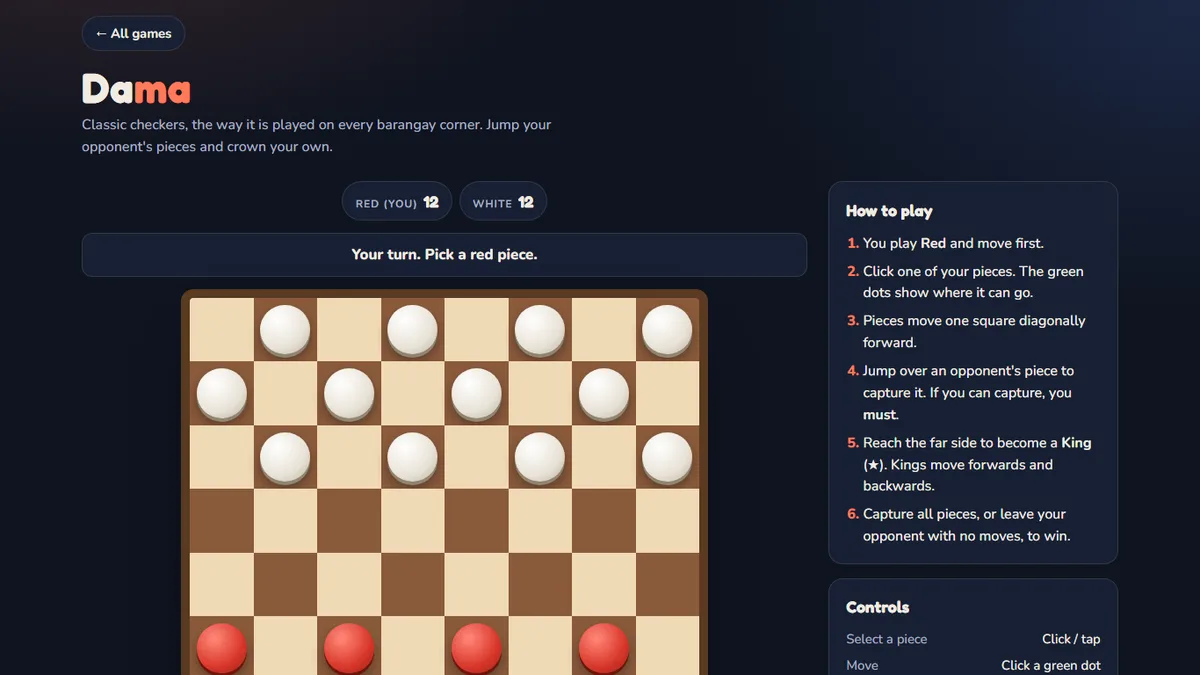
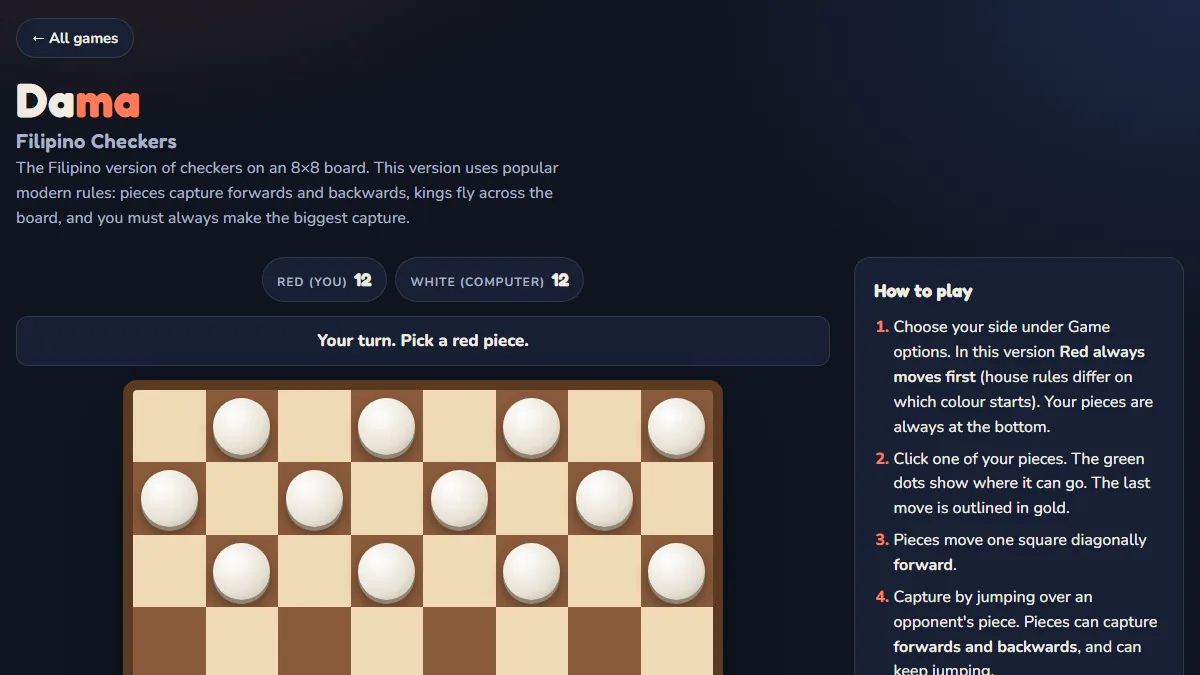
Add Upfern and update game descriptions and screenshots

Changed region(s): [[0.0, 0.0311, 0.6167, 1.0], [0.6783, 0.28, 0.9867, 1.0]]

diff --git a/index.html b/index.html
@@ -301,7 +301,7 @@
               <p class="eyebrow">Games &amp; Apps · 2026</p>
               <h3 class="ai-lab__title">Small browser games and apps</h3>
               <p class="ai-lab__note">Each project runs directly in the browser without requiring a download and includes on-screen instructions. Depending on the project, you can use a keyboard, mouse, touchscreen, or a combination of these. These projects were built with the help of AI coding tools and tested on desktop and mobile devices.</p>
-              <p class="ai-lab__cta"><a class="btn btn--primary btn--sm" href="https://dustinclarence.github.io/arcade/" target="_blank" rel="noopener">Open the Arcade: 9 games ↗<span class="visually-hidden"> (opens in a new tab)</span></a></p>
+              <p class="ai-lab__cta"><a class="btn btn--primary btn--sm" href="https://dustinclarence.github.io/arcade/" target="_blank" rel="noopener">Open the Arcade: 10 games ↗<span class="visually-hidden"> (opens in a new tab)</span></a></p>
             </header>
             <div class="projects projects--ai">
             <article class="project project--lab reveal" data-cat="lab">
@@ -313,11 +313,28 @@
               <div class="project__body">
                 <p class="project__meta"><span>Game</span> Driving</p>
                 <h3 class="project__title">Moonlit Cash Run</h3>
-                <p>A 16-bit style chase through a big city at night. The camera follows behind your car while you grab cash bags and escape the police.</p>
-                <p class="project__skills"><strong>Skills demonstrated:</strong> Rotating chase camera, car physics, police pathfinding (breadth-first search), minimap, keyboard and touch controls</p>
+                <p>A 16-bit style chase through a big city at night. The camera follows behind your car while you grab cash bags and escape the police. Steering sensitivity can be adjusted.</p>
+                <p class="project__skills"><strong>Skills demonstrated:</strong> Rotating chase camera, car physics and wall collisions, police pathfinding (breadth-first search), minimap, keyboard and touch controls</p>
                 <div class="project__actions">
                   <a class="btn btn--primary btn--sm" href="https://dustinclarence.github.io/arcade/moonlit-cash-run/" target="_blank" rel="noopener">Play<span class="visually-hidden"> Moonlit Cash Run (opens in a new tab)</span></a>
                   <a class="btn btn--ghost btn--sm" href="https://github.com/dustinclarence/arcade" target="_blank" rel="noopener">Code<span class="visually-hidden"> of Moonlit Cash Run on GitHub (opens in a new tab)</span></a>
+                </div>
+              </div>
+            </article>
+            <article class="project project--lab reveal" data-cat="lab">
+              <a class="project__media" href="https://dustinclarence.github.io/arcade/upfern/" target="_blank" rel="noopener">
+                <img src="/img/game-upfern.webp" width="1200" height="675" loading="lazy" alt="Upfern game with a seed sprout jumping between leaves" />
+                <span class="project__zoom" aria-hidden="true">Play now ↗</span>
+                <span class="visually-hidden">Open Upfern (opens in a new tab)</span>
+              </a>
+              <div class="project__body">
+                <p class="project__meta"><span>Game</span> Endless jumper</p>
+                <h3 class="project__title">Upfern</h3>
+                <p>An original endless jumping game. Steer a little seed sprout from leaf to leaf, avoid thornbugs and climb as high as you can.</p>
+                <p class="project__skills"><strong>Skills demonstrated:</strong> Fixed-timestep physics, procedural level generation, collision detection, keyboard and touch controls</p>
+                <div class="project__actions">
+                  <a class="btn btn--primary btn--sm" href="https://dustinclarence.github.io/arcade/upfern/" target="_blank" rel="noopener">Play<span class="visually-hidden"> Upfern (opens in a new tab)</span></a>
+                  <a class="btn btn--ghost btn--sm" href="https://github.com/dustinclarence/arcade" target="_blank" rel="noopener">Code<span class="visually-hidden"> of Upfern on GitHub (opens in a new tab)</span></a>
                 </div>
               </div>
             </article>
@@ -330,8 +347,8 @@
               <div class="project__body">
                 <p class="project__meta"><span>Game</span> Board</p>
                 <h3 class="project__title">Dama (Filipino Checkers)</h3>
-                <p>Filipino checkers using modern 8×8 rules: pieces capture forwards and backwards, kings fly along the diagonals, and you must take the most pieces. Play the computer or a friend.</p>
-                <p class="project__skills"><strong>Skills demonstrated:</strong> Rule engine (compulsory maximum capture, flying kings), computer opponent (minimax), undo</p>
+                <p>Filipino checkers using modern 8×8 rules: pieces capture forwards and backwards, kings fly along the diagonals, and you must take the most pieces. Play Red or White against the computer, or play a friend.</p>
+                <p class="project__skills"><strong>Skills demonstrated:</strong> Rule engine (compulsory maximum capture, flying kings), computer opponent (minimax), move animations, undo</p>
                 <div class="project__actions">
                   <a class="btn btn--primary btn--sm" href="https://dustinclarence.github.io/arcade/dama/" target="_blank" rel="noopener">Play<span class="visually-hidden"> Dama (opens in a new tab)</span></a>
                   <a class="btn btn--ghost btn--sm" href="https://github.com/dustinclarence/arcade" target="_blank" rel="noopener">Code<span class="visually-hidden"> of Dama on GitHub (opens in a new tab)</span></a>
@@ -347,7 +364,7 @@
               <div class="project__body">
                 <p class="project__meta"><span>Game</span> Board</p>
                 <h3 class="project__title">Four in a Row</h3>
-                <p>Drop discs and connect four before your opponent. The computer looks several moves ahead.</p>
+                <p>Drop discs and connect four before your opponent. Play first or second; the computer looks several moves ahead.</p>
                 <p class="project__skills"><strong>Skills demonstrated:</strong> Minimax with alpha-beta pruning, win detection, animations</p>
                 <div class="project__actions">
                   <a class="btn btn--primary btn--sm" href="https://dustinclarence.github.io/arcade/four-in-a-row/" target="_blank" rel="noopener">Play<span class="visually-hidden"> Four in a Row (opens in a new tab)</span></a>
@@ -364,7 +381,7 @@
               <div class="project__body">
                 <p class="project__meta"><span>Game</span> Board</p>
                 <h3 class="project__title">XOX (Tic-Tac-Toe)</h3>
-                <p>Tic-tac-toe with an unbeatable computer, an easy mode and a 2-player mode.</p>
+                <p>Tic-tac-toe with an unbeatable computer, an easy mode and a 2-player mode. Play as X or O.</p>
                 <p class="project__skills"><strong>Skills demonstrated:</strong> Game-tree search, scorekeeping, keyboard shortcuts</p>
                 <div class="project__actions">
                   <a class="btn btn--primary btn--sm" href="https://dustinclarence.github.io/arcade/xox/" target="_blank" rel="noopener">Play<span class="visually-hidden"> XOX (opens in a new tab)</span></a>
@@ -398,8 +415,8 @@
               <div class="project__body">
                 <p class="project__meta"><span>Game</span> One button</p>
                 <h3 class="project__title">Sky Stack</h3>
-                <p>Drop swinging floors from a crane to build the tallest tower you can.</p>
-                <p class="project__skills"><strong>Skills demonstrated:</strong> Canvas animation, pendulum motion, scoring and lives</p>
+                <p>Drop swinging floors from a crane to build the tallest tower you can. The tower sways, and floors placed too far off-centre topple.</p>
+                <p class="project__skills"><strong>Skills demonstrated:</strong> Canvas animation, pendulum motion, centre-of-mass balance check, scoring and lives</p>
                 <div class="project__actions">
                   <a class="btn btn--primary btn--sm" href="https://dustinclarence.github.io/arcade/sky-stack/" target="_blank" rel="noopener">Play<span class="visually-hidden"> Sky Stack (opens in a new tab)</span></a>
                   <a class="btn btn--ghost btn--sm" href="https://github.com/dustinclarence/arcade" target="_blank" rel="noopener">Code<span class="visually-hidden"> of Sky Stack on GitHub (opens in a new tab)</span></a>
@@ -415,7 +432,7 @@
               <div class="project__body">
                 <p class="project__meta"><span>Game</span> One button</p>
                 <h3 class="project__title">Paper Plane Dash</h3>
-                <p>Tap to keep a paper plane in the air and fly through the gaps between the pillars.</p>
+                <p>Tap to keep a paper plane in the air and fly through narrow gaps between the pillars. Simple to learn, hard to master.</p>
                 <p class="project__skills"><strong>Skills demonstrated:</strong> Gravity physics, collision detection, best-score saving</p>
                 <div class="project__actions">
                   <a class="btn btn--primary btn--sm" href="https://dustinclarence.github.io/arcade/paper-plane/" target="_blank" rel="noopener">Play<span class="visually-hidden"> Paper Plane Dash (opens in a new tab)</span></a>
@@ -432,8 +449,8 @@
               <div class="project__body">
                 <p class="project__meta"><span>Game</span> Classic</p>
                 <h3 class="project__title">Pixel Snake</h3>
-                <p>Eat the fruit, grow longer and avoid your own tail. Works with keys, swipe or on-screen buttons.</p>
-                <p class="project__skills"><strong>Skills demonstrated:</strong> Game loop, input queue, swipe gestures</p>
+                <p>Eat the fruit, grow longer and avoid your own tail. The snake glides smoothly between squares. Works with keys, swipe or on-screen buttons.</p>
+                <p class="project__skills"><strong>Skills demonstrated:</strong> Game loop with smooth interpolation, input queue, swipe gestures</p>
                 <div class="project__actions">
                   <a class="btn btn--primary btn--sm" href="https://dustinclarence.github.io/arcade/snake/" target="_blank" rel="noopener">Play<span class="visually-hidden"> Pixel Snake (opens in a new tab)</span></a>
                   <a class="btn btn--ghost btn--sm" href="https://github.com/dustinclarence/arcade" target="_blank" rel="noopener">Code<span class="visually-hidden"> of Pixel Snake on GitHub (opens in a new tab)</span></a>
@@ -449,8 +466,8 @@
               <div class="project__body">
                 <p class="project__meta"><span>Game</span> Puzzle</p>
                 <h3 class="project__title">Number Merge</h3>
-                <p>Slide and merge matching tiles to reach 2048, with undo for when a move goes wrong.</p>
-                <p class="project__skills"><strong>Skills demonstrated:</strong> Grid algorithms, undo history, swipe controls</p>
+                <p>Slide and merge matching tiles to reach 2048. Every tile slides smoothly to its new square, and there is undo for when a move goes wrong.</p>
+                <p class="project__skills"><strong>Skills demonstrated:</strong> Grid algorithms, tile animations, undo history, swipe controls</p>
                 <div class="project__actions">
                   <a class="btn btn--primary btn--sm" href="https://dustinclarence.github.io/arcade/number-merge/" target="_blank" rel="noopener">Play<span class="visually-hidden"> Number Merge (opens in a new tab)</span></a>
                   <a class="btn btn--ghost btn--sm" href="https://github.com/dustinclarence/arcade" target="_blank" rel="noopener">Code<span class="visually-hidden"> of Number Merge on GitHub (opens in a new tab)</span></a>
@@ -483,7 +500,7 @@
               <div class="project__body">
                 <p class="project__meta"><span>Game</span> Board</p>
                 <h3 class="project__title">Chess</h3>
-                <p>Full chess with castling, en passant and promotion against a computer that thinks up to four moves ahead.</p>
+                <p>Full chess with castling, en passant and promotion against a computer that thinks up to four moves ahead. Play as White or Black.</p>
                 <p class="project__skills"><strong>Skills demonstrated:</strong> Move generation checked with perft tests, minimax with alpha-beta pruning</p>
                 <div class="project__actions">
                   <a class="btn btn--primary btn--sm" href="https://dustinclarence.github.io/chess-ai/" target="_blank" rel="noopener">Play<span class="visually-hidden"> Chess (opens in a new tab)</span></a>
@@ -500,8 +517,8 @@
               <div class="project__body">
                 <p class="project__meta"><span>Game</span> Strategy</p>
                 <h3 class="project__title">Fleet Grid</h3>
-                <p>An original naval grid game. The computer aims with a probability heatmap you can switch on and watch.</p>
-                <p class="project__skills"><strong>Skills demonstrated:</strong> Probability-based search, game design, keyboard play</p>
+                <p>An original naval grid game. Place your own fleet (the same ships as the computer), choose who fires first, and watch the computer aim with a probability heatmap.</p>
+                <p class="project__skills"><strong>Skills demonstrated:</strong> Probability-based search, ship placement rules, game design, keyboard play</p>
                 <div class="project__actions">
                   <a class="btn btn--primary btn--sm" href="https://dustinclarence.github.io/fleet-grid-ai/" target="_blank" rel="noopener">Play<span class="visually-hidden"> Fleet Grid (opens in a new tab)</span></a>
                   <a class="btn btn--ghost btn--sm" href="https://github.com/dustinclarence/fleet-grid-ai" target="_blank" rel="noopener">Code<span class="visually-hidden"> of Fleet Grid on GitHub (opens in a new tab)</span></a>

diff --git a/README.md b/README.md
@@ -8,7 +8,7 @@ Personal portfolio of Dustin Clarence Costo, BS Information Technology student a
 
 Home · About · Skills · Projects (including Games & Apps) · QA Skills Snapshot · Experience · Academic Achievements · Reflection · Contact
 
-The **Games & Apps** area links to twelve browser projects, including the nine-game [Arcade](https://dustinclarence.github.io/arcade/).
+The **Games & Apps** area links to thirteen browser projects, including the ten-game [Arcade](https://dustinclarence.github.io/arcade/).
 
 ## Built with
 
